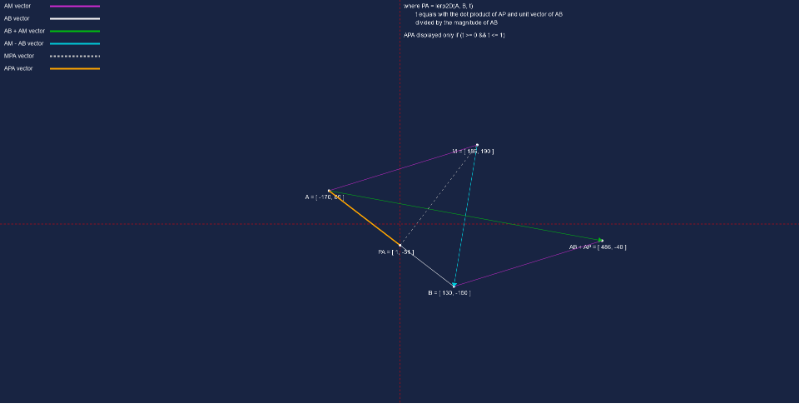
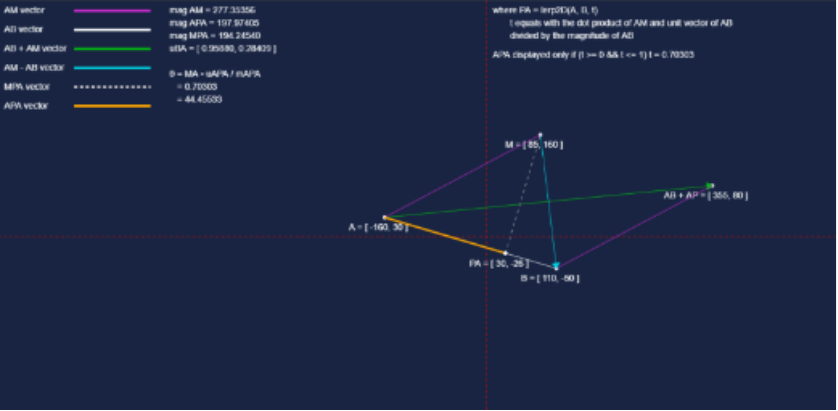
ytb added

diff --git a/README.md b/README.md
@@ -1,4 +1,22 @@
 # vectors2d
-Demonstrates 2D vector manipulations 
+Demonstrates 2D vector manipulations
 
 ![Demo](docs/img/pic.png)
+
+## Description
+
+This small JS application  demonstrates basic vector manipulations - addition, subtraction, scale, dot product, distance, direction and magnitude.
+
+Using mouse pointer user user can dynamically update the following elements:
+
+- vector AB + AM
+- vector AB - AM
+- vector dot product (AM &bull; AB)
+- angle &theta; - angle between AM and AP
+
+
+> At window load event the mouse pointer drags point **M** along the canvas, however if user clicks on the canvas once fixes the ***M*** at the click position. Another click on the canvas releases the point, and allows to follow the mouse pointer around the canvas.
+
+### Video descriptions on YouTube
+
+- FloatyMonkey: [Vectors]()
